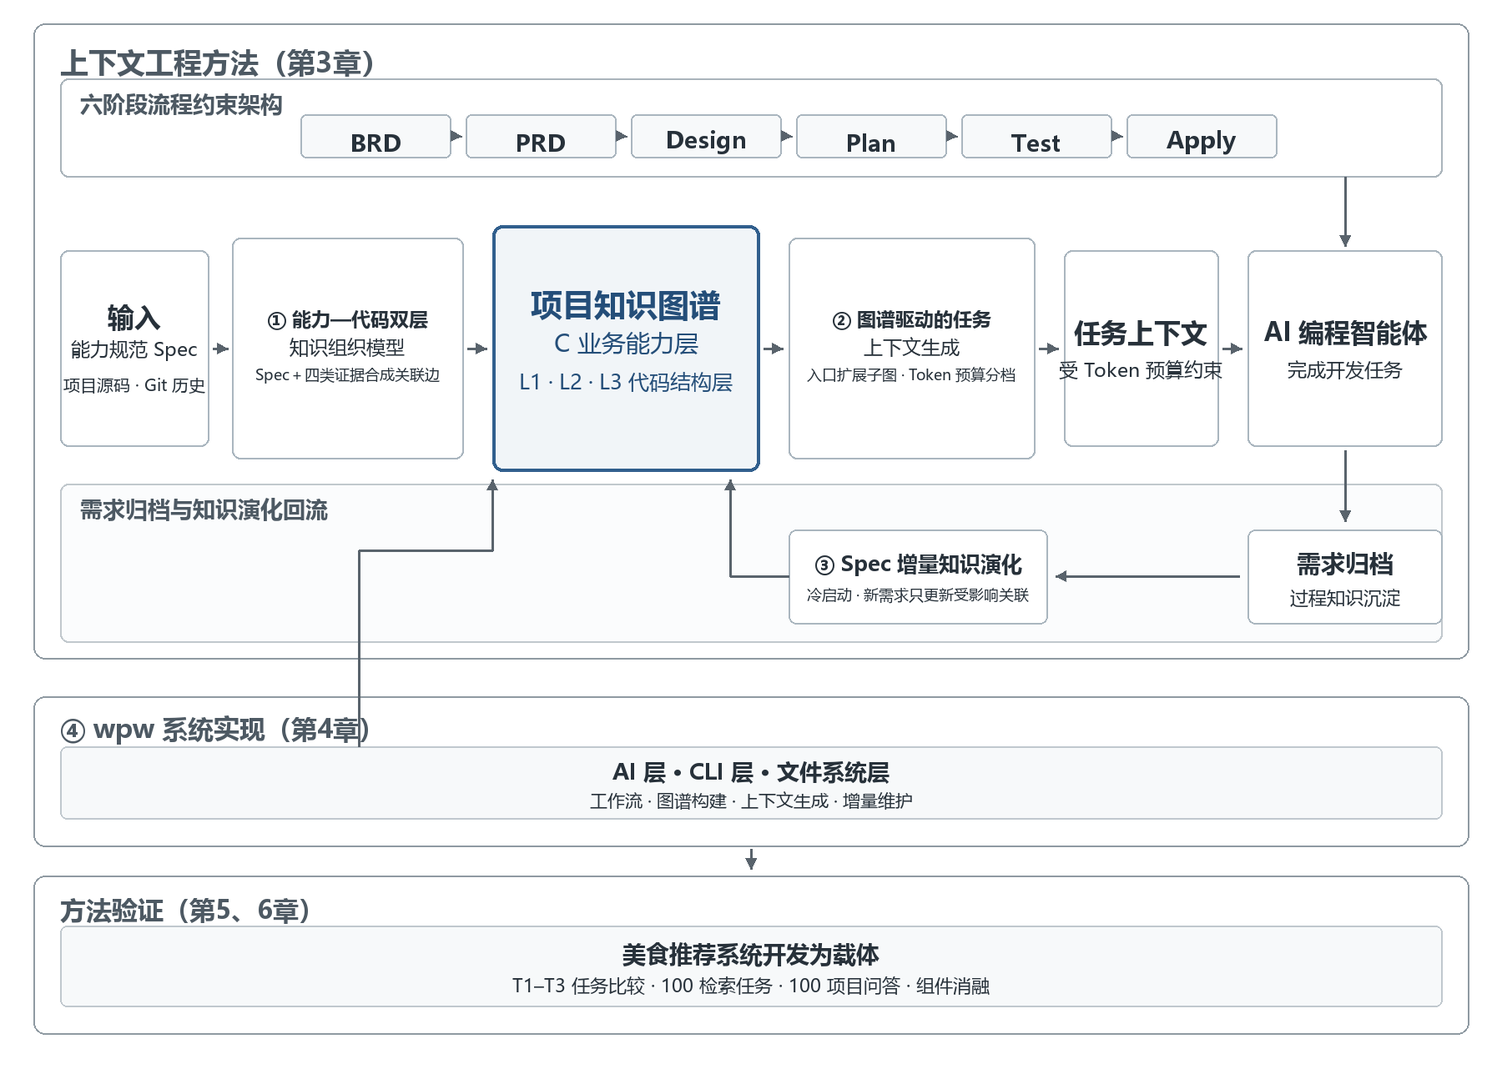
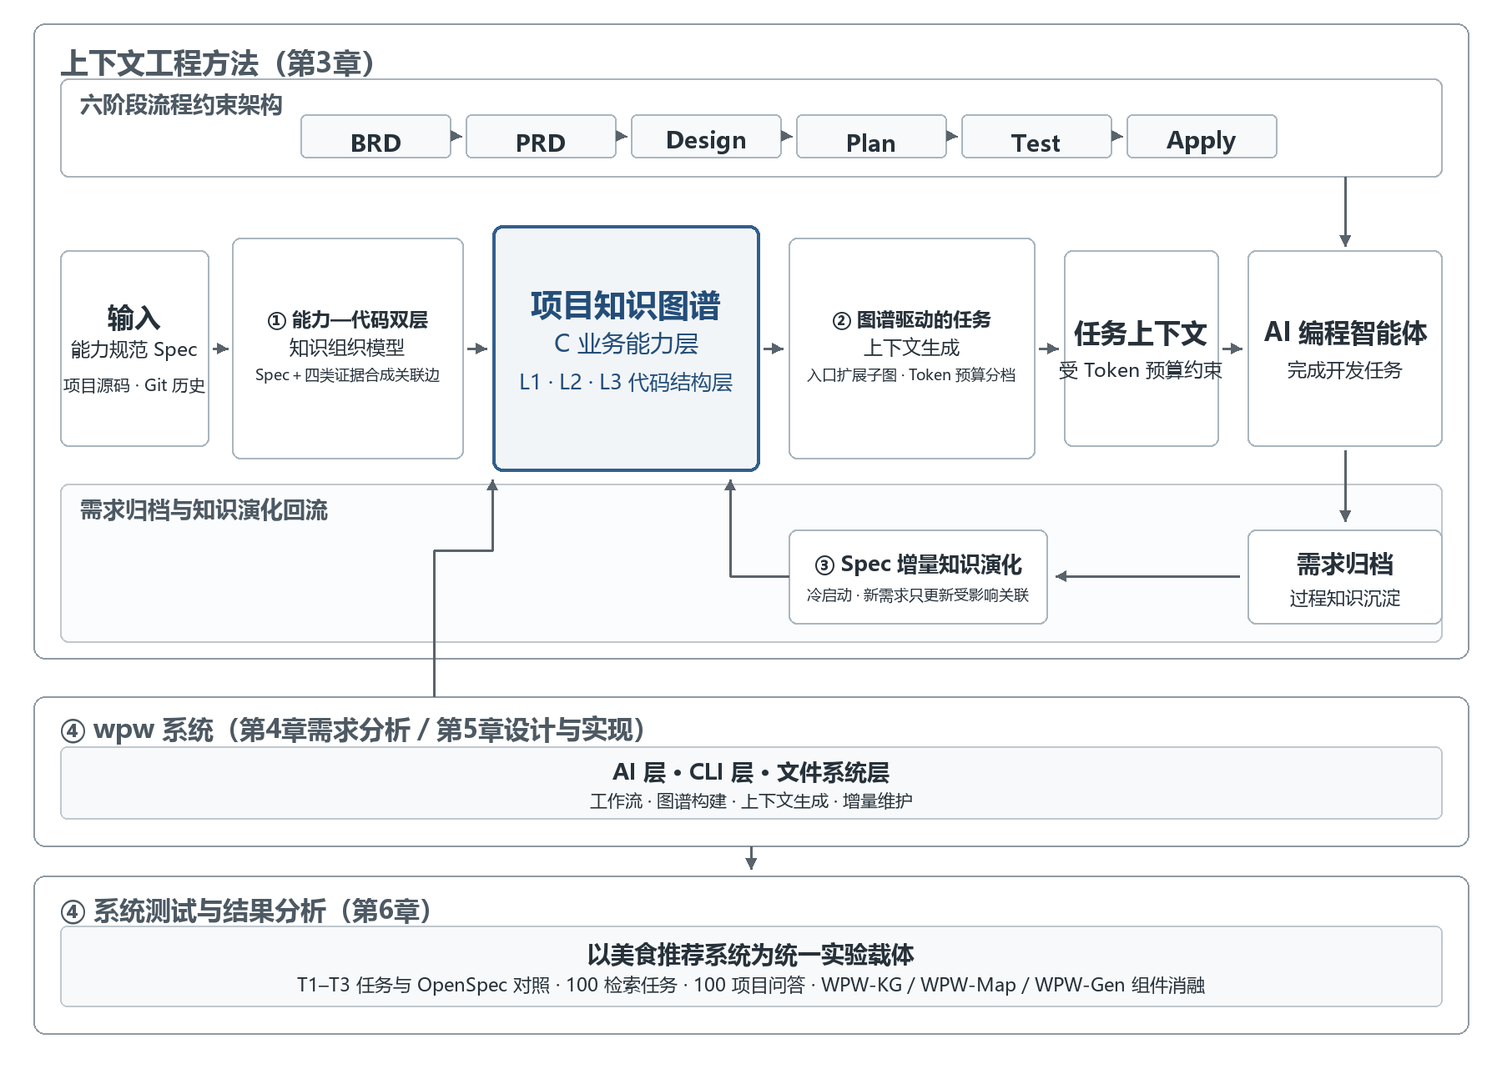
章节更新

Changed region(s): [[0.2178, 0.8615, 0.8089, 0.9231], [0.1244, 0.6462, 0.4356, 0.7077], [0.0311, 0.8308, 0.28, 0.8615]]

diff --git a/scripts/render_fig12.py b/scripts/render_fig12.py
@@ -1,147 +1,41 @@
 # -*- coding: utf-8 -*-
-"""Render the updated Figure 1-2 as PNG and editable SVG."""
-
+"""Render Figure 1-2 as a reproducible PNG and editable SVG."""
 from pathlib import Path
 from xml.sax.saxutils import escape
 import math
-
 from PIL import Image, ImageDraw, ImageFont
+W,H=1800,1300
+ROOT=Path(__file__).resolve().parents[1]
+OUT_DIR=ROOT/'论文'/'图表'/'第1章'
+PNG_OUT=OUT_DIR/'图1-2-核心研究内容.png'; SVG_OUT=OUT_DIR/'图1-2-核心研究内容.svg'
+FONT=r'C:\Windows\Fonts\msyh.ttc'; BOLD=r'C:\Windows\Fonts\msyhbd.ttc'
+TEXT='#27313a'; MUTED='#4d5963'; LINE='#59636c'; BORDER='#aab6bf'
+img=Image.new('RGB',(W,H),'white'); d=ImageDraw.Draw(img)
+svg=[f'<svg xmlns="http://www.w3.org/2000/svg" width="{W}" height="{H}" viewBox="0 0 {W} {H}">','<defs><marker id="arrow" markerWidth="12" markerHeight="12" refX="10" refY="6" orient="auto" markerUnits="strokeWidth"><path d="M0,0 L12,6 L0,12 Z" fill="#59636c"/></marker></defs>','<style>.cn{font-family:"Microsoft YaHei","Noto Sans CJK SC","SimSun",sans-serif;fill:#27313a}</style>',f'<rect width="{W}" height="{H}" fill="#fff"/>']
+def f(size,bold=False): return ImageFont.truetype(BOLD if bold else FONT,size)
+def rect(box,fill='#fff',outline=BORDER,width=2,radius=10,dashed=False):
+ x1,y1,x2,y2=box; d.rounded_rectangle(box,radius=radius,fill=fill,outline=outline,width=width); dash=' stroke-dasharray="10 8"' if dashed else ''; svg.append(f'<rect x="{x1}" y="{y1}" width="{x2-x1}" height="{y2-y1}" rx="{radius}" fill="{fill}" stroke="{outline}" stroke-width="{width}"{dash}/>')
+def text(x,y,value,size=24,bold=False,color=TEXT,anchor='middle'):
+ face=f(size,bold); b=d.textbbox((0,0),value,font=face); width=b[2]-b[0]; px=x-width/2 if anchor=='middle' else (x-width if anchor=='end' else x); d.text((px,y-(b[3]-b[1])/2),value,font=face,fill=color); weight='font-weight:600;' if bold else ''; svg.append(f'<text x="{x}" y="{y}" text-anchor="{anchor}" dominant-baseline="middle" class="cn" style="font-size:{size}px;{weight}fill:{color}">{escape(value)}</text>')
+def lines(cx,cy,values,sizes,colors=None,leading=36,first_bold=True):
+ colors=colors or [TEXT]*len(values); top=cy-leading*(len(values)-1)/2
+ for i,value in enumerate(values): text(cx,top+leading*i,value,sizes[i],bold=first_bold and i==0,color=colors[i])
+def arrow(points,color=LINE,width=3):
+ d.line(points,fill=color,width=width,joint='curve'); pts=' '.join(f'{x},{y}' for x,y in points); svg.append(f'<polyline points="{pts}" fill="none" stroke="{color}" stroke-width="{width}" stroke-linejoin="round" marker-end="url(#arrow)"/>'); x1,y1=points[-2]; x2,y2=points[-1]; angle=math.atan2(y2-y1,x2-x1); head=14; p1=(x2-head*math.cos(angle-.48),y2-head*math.sin(angle-.48)); p2=(x2-head*math.cos(angle+.48),y2-head*math.sin(angle+.48)); d.polygon([(x2,y2),p1,p2],fill=color)
+rect((40,28,1760,790),outline='#8f9aa2',radius=14,dashed=True); text(72,68,'上下文工程方法（第3章）',34,True,MUTED,'start')
+rect((72,94,1728,212),outline='#aab4bb',radius=10,dashed=True); text(96,119,'六阶段流程约束架构',27,True,MUTED,'start')
+stages=['BRD','PRD','Design','Plan','Test','Apply']; sx,sy,sw,sh,gap=360,137,180,52,18
+for i,stage in enumerate(stages):
+ x1=sx+i*(sw+gap); rect((x1,sy,x1+sw,sy+sh),fill='#f7f9fa',radius=7); text(x1+sw/2,sy+sh/2,stage,28,True)
+ if i<len(stages)-1: arrow([(x1+sw+5,sy+sh/2),(x1+sw+gap-5,sy+sh/2)],width=2)
+boxes=[(72,300,250,535),(278,285,555,550),(590,270,910,565),(945,285,1240,550),(1275,300,1460,535),(1495,300,1728,535)]
+for i,box in enumerate(boxes): rect(box,fill='#f1f5f8' if i==2 else '#fff',outline='#315f8d' if i==2 else BORDER,width=4 if i==2 else 2,radius=12 if i==2 else 10)
+lines(161,415,['输入','能力规范 Spec','项目源码 · Git 历史'],[32,23,20],leading=42); lines(416,412,['① 能力—代码双层','知识组织模型','Spec＋四类证据合成关联边'],[23,23,18],leading=34); lines(750,405,['项目知识图谱','C 业务能力层','L1 · L2 · L3 代码结构层'],[38,29,25],['#244e79']*3,leading=48); lines(1092,412,['② 图谱驱动的任务','上下文生成','入口扩展子图 · Token 预算分档'],[23,23,18],leading=34); lines(1367,415,['任务上下文','受 Token 预算约束'],[32,23],leading=47); lines(1612,415,['AI 编程智能体','完成开发任务'],[31,23],leading=47)
+for a,b in [((255,418),(273,418)),((560,418),(583,418)),((915,418),(938,418)),((1245,418),(1268,418)),((1465,418),(1488,418))]: arrow([a,b])
+arrow([(1612,212),(1612,287),(1612,295)])
+rect((72,580,1728,770),fill='#fbfcfd',outline='#c1c8cd',radius=10,dashed=True); text(96,605,'需求归档与知识演化回流',27,True,MUTED,'start'); rect((945,635,1255,748)); rect((1495,635,1728,748)); lines(1100,691,['③ Spec 增量知识演化','冷启动 · 新需求只更新受影响关联'],[25,18],leading=38); lines(1612,691,['需求归档','过程知识沉淀'],[29,22],leading=42); arrow([(1612,540),(1612,625)]); arrow([(1485,691),(1265,691)]); arrow([(945,691),(875,691),(875,575)])
+rect((40,835,1760,1015),outline='#8f9aa2',radius=14); text(72,870,'④ wpw 系统（第4章需求分析／第5章设计与实现）',31,True,MUTED,'start'); rect((72,895,1728,982),fill='#f7f9fa',outline='#c0c8ce',radius=8); lines(900,938,['AI 层 · CLI 层 · 文件系统层','工作流 · 图谱构建 · 上下文生成 · 增量维护'],[27,21],leading=36)
+rect((40,1050,1760,1240),outline='#8f9aa2',radius=14); text(72,1085,'④ 系统测试与结果分析（第6章）',31,True,MUTED,'start'); rect((72,1110,1728,1207),fill='#f7f9fa',outline='#c0c8ce',radius=8); lines(900,1158,['以美食推荐系统为统一实验载体','T1–T3 任务与 OpenSpec 对照 · 100 检索任务 · 100 项目问答 · WPW-KG／WPW-Map／WPW-Gen 组件消融'],[28,22],leading=38)
+arrow([(520,835),(520,805),(520,660),(590,660),(590,575)]); arrow([(900,1015),(900,1042)])
+svg.append('</svg>'); OUT_DIR.mkdir(parents=True,exist_ok=True); img.save(PNG_OUT,'PNG',optimize=True); SVG_OUT.write_text('\n'.join(svg),encoding='utf-8'); print(PNG_OUT); print(SVG_OUT)
 
-
-W, H = 1800, 1300
-ROOT = Path(__file__).resolve().parents[1]
-OUT_DIR = ROOT / "论文" / "图表" / "第1章"
-PNG_OUT = OUT_DIR / "图1-2-核心研究内容.png"
-SVG_OUT = OUT_DIR / "图1-2-核心研究内容.svg"
-FONT = r"C:\Windows\Fonts\msyh.ttc"
-BOLD = r"C:\Windows\Fonts\msyhbd.ttc"
-
-img = Image.new("RGB", (W, H), "white")
-d = ImageDraw.Draw(img)
-svg = [
-    '<svg xmlns="http://www.w3.org/2000/svg" width="1800" height="1300" viewBox="0 0 1800 1300">',
-    '<defs><marker id="arrow" markerWidth="12" markerHeight="12" refX="10" refY="6" orient="auto" markerUnits="strokeWidth"><path d="M0,0 L12,6 L0,12 Z" fill="#59636c"/></marker></defs>',
-    '<style>.cn{font-family:"Microsoft YaHei","Noto Sans CJK SC","SimSun",sans-serif;fill:#27313a}.stage{font-weight:600}</style>',
-    '<rect width="1800" height="1300" fill="#fff"/>',
-]
-
-
-def f(size, bold=False):
-    return ImageFont.truetype(BOLD if bold else FONT, size)
-
-
-def rect(box, fill="#fff", outline="#aab6bf", width=2, radius=10, dashed=False):
-    x1, y1, x2, y2 = box
-    d.rounded_rectangle(box, radius=radius, fill=fill, outline=outline, width=width)
-    dash = ' stroke-dasharray="10 8"' if dashed else ""
-    svg.append(f'<rect x="{x1}" y="{y1}" width="{x2-x1}" height="{y2-y1}" rx="{radius}" fill="{fill}" stroke="{outline}" stroke-width="{width}"{dash}/>')
-
-
-def text(x, y, value, size=24, bold=False, color="#27313a", anchor="middle"):
-    face = f(size, bold)
-    b = d.textbbox((0, 0), value, font=face)
-    width = b[2] - b[0]
-    px = x - width / 2 if anchor == "middle" else (x - width if anchor == "end" else x)
-    d.text((px, y - (b[3] - b[1]) / 2), value, font=face, fill=color)
-    weight = 'font-weight:600;' if bold else ''
-    svg.append(f'<text x="{x}" y="{y}" text-anchor="{anchor}" dominant-baseline="middle" class="cn" style="font-size:{size}px;{weight}fill:{color}">{escape(value)}</text>')
-
-
-def lines(cx, cy, values, sizes, colors=None, leading=36, first_bold=True):
-    colors = colors or ["#27313a"] * len(values)
-    top = cy - leading * (len(values) - 1) / 2
-    for i, value in enumerate(values):
-        text(cx, top + leading * i, value, sizes[i], bold=first_bold and i == 0, color=colors[i])
-
-
-def arrow(points, color="#59636c", width=3):
-    d.line(points, fill=color, width=width, joint="curve")
-    pts = " ".join(f"{x},{y}" for x, y in points)
-    svg.append(f'<polyline points="{pts}" fill="none" stroke="{color}" stroke-width="{width}" stroke-linejoin="round" marker-end="url(#arrow)"/>')
-    x1, y1 = points[-2]
-    x2, y2 = points[-1]
-    angle = math.atan2(y2 - y1, x2 - x1)
-    head = 14
-    p1 = (x2 - head * math.cos(angle - .48), y2 - head * math.sin(angle - .48))
-    p2 = (x2 - head * math.cos(angle + .48), y2 - head * math.sin(angle + .48))
-    d.polygon([(x2, y2), p1, p2], fill=color)
-
-
-# 1. Method area: the absolute visual focus of the figure.
-rect((40, 28, 1760, 790), fill="#fff", outline="#8f9aa2", width=2, radius=14, dashed=True)
-text(72, 68, "上下文工程方法（第3章）", 34, True, "#4d5963", anchor="start")
-
-# Workflow constraint sub-band.
-rect((72, 94, 1728, 212), fill="#fff", outline="#aab4bb", width=2, radius=10, dashed=True)
-text(96, 119, "六阶段流程约束架构", 27, True, "#4d5963", anchor="start")
-stages = ["BRD", "PRD", "Design", "Plan", "Test", "Apply"]
-sx, sy, sw, sh, gap = 360, 137, 180, 52, 18
-for i, stage in enumerate(stages):
-    x1 = sx + i * (sw + gap)
-    rect((x1, sy, x1 + sw, sy + sh), fill="#f7f9fa", outline="#aab6bf", width=2, radius=7)
-    text(x1 + sw / 2, sy + sh / 2, stage, 28, True, "#27313a")
-    if i < len(stages) - 1:
-        arrow([(x1 + sw + 5, sy + sh / 2), (x1 + sw + gap - 5, sy + sh / 2)], width=2)
-
-# Main method chain.
-boxes = {
-    "input": (72, 300, 250, 535),
-    "model": (278, 285, 555, 550),
-    "graph": (590, 270, 910, 565),
-    "context": (945, 285, 1240, 550),
-    "task": (1275, 300, 1460, 535),
-    "agent": (1495, 300, 1728, 535),
-}
-for key, box in boxes.items():
-    if key == "graph":
-        rect(box, fill="#f1f5f8", outline="#315f8d", width=4, radius=12)
-    else:
-        rect(box, fill="#fff", outline="#aab6bf", width=2, radius=10)
-
-lines(161, 415, ["输入", "能力规范 Spec", "项目源码 · Git 历史"], [32, 23, 20], leading=42)
-lines(416, 412, ["① 能力—代码双层", "知识组织模型", "Spec＋四类证据合成关联边"], [23, 23, 18], leading=34)
-lines(750, 405, ["项目知识图谱", "C 业务能力层", "L1 · L2 · L3 代码结构层"], [38, 29, 25], ["#244e79"] * 3, leading=48)
-lines(1092, 412, ["② 图谱驱动的任务", "上下文生成", "入口扩展子图 · Token 预算分档"], [23, 23, 18], leading=34)
-lines(1367, 415, ["任务上下文", "受 Token 预算约束"], [32, 23], leading=47)
-lines(1612, 415, ["AI 编程智能体", "完成开发任务"], [31, 23], leading=47)
-
-for a, b in [((255, 418), (273, 418)), ((560, 418), (583, 418)), ((915, 418), (938, 418)), ((1245, 418), (1268, 418)), ((1465, 418), (1488, 418))]:
-    arrow([a, b])
-
-# Flow constraint -> agent (the only arrow crossing the workflow sub-band boundary).
-arrow([(1612, 212), (1612, 287), (1612, 295)])
-
-# Archive/evolution return lane inside the method area.
-rect((72, 580, 1728, 770), fill="#fbfcfd", outline="#c1c8cd", width=2, radius=10, dashed=True)
-text(96, 605, "需求归档与知识演化回流", 27, True, "#4d5963", anchor="start")
-rect((945, 635, 1255, 748), fill="#fff", outline="#aab6bf", width=2, radius=9)
-rect((1495, 635, 1728, 748), fill="#fff", outline="#aab6bf", width=2, radius=9)
-lines(1100, 691, ["③ Spec 增量知识演化", "冷启动 · 新需求只更新受影响关联"], [25, 18], leading=38)
-lines(1612, 691, ["需求归档", "过程知识沉淀"], [29, 22], leading=42)
-
-# Method-area return arrows.
-arrow([(1612, 540), (1612, 625)])
-arrow([(1485, 691), (1265, 691)])
-arrow([(945, 691), (875, 691), (875, 575)])
-
-# 2. Implementation and validation areas.
-rect((40, 835, 1760, 1015), fill="#fff", outline="#8f9aa2", width=2, radius=14)
-text(72, 870, "④ wpw 系统实现（第4章）", 31, True, "#4d5963", anchor="start")
-rect((72, 895, 1728, 982), fill="#f7f9fa", outline="#c0c8ce", width=2, radius=8)
-lines(900, 938, ["AI 层 · CLI 层 · 文件系统层", "工作流 · 图谱构建 · 上下文生成 · 增量维护"], [27, 21], leading=36)
-
-rect((40, 1050, 1760, 1240), fill="#fff", outline="#8f9aa2", width=2, radius=14)
-text(72, 1085, "方法验证（第5、6章）", 31, True, "#4d5963", anchor="start")
-rect((72, 1110, 1728, 1207), fill="#f7f9fa", outline="#c0c8ce", width=2, radius=8)
-lines(900, 1158, ["美食推荐系统开发为载体", "T1–T3 任务比较 · 100 检索任务 · 100 项目问答 · 组件消融"], [28, 22], leading=38)
-
-# Cross-zone interfaces: implementation -> method, implementation -> validation.
-arrow([(430, 895), (430, 805), (430, 660), (590, 660), (590, 575)])
-arrow([(900, 1018), (900, 1042)])
-
-svg.append("</svg>")
-OUT_DIR.mkdir(parents=True, exist_ok=True)
-img.save(PNG_OUT, "PNG", optimize=True)
-SVG_OUT.write_text("\n".join(svg), encoding="utf-8")
-print(PNG_OUT)
-print(SVG_OUT)

diff --git a/论文/1.引言.md b/论文/1.引言.md
@@ -110,31 +110,32 @@ Figure 1-1 Coverage of Existing Research and the Position of This Thesis
 
 <!--
 【图1-2 占位说明｜绘好后删除本注释，保留下方图片行与图题】
+（2026-09-27 按终版章节结构修订：wpw 跨第4、5章，验证归第6章；机制②说明对齐 3.5 四阶段流水线；细节分图编号更新为图3-1~3-5 与图5-1~5-5；④ 小标在 wpw 框与验证框各置一个；箭头⑩改从 wpw 框顶边外沿出发。）
 
-图意（一句话）：本文的核心研究是上下文工程方法（第3章），它由六阶段流程约束架构与知识建模、上下文生成、知识演化三项机制组成，沿开发闭环运行；wpw 系统是方法的实现（第4、5章：系统需求分析、系统设计与实现），第6章对系统测试并对照实验结果完成方法验证（美食推荐系统为统一实验载体）。图面以第3章方法为绝对主体（约占六成画面），wpw 与验证为下方辅框。
+图意（一句话）：本文的核心研究是上下文工程方法（第3章），它由六阶段流程约束架构与知识建模、上下文生成、知识演化三项机制组成，沿开发闭环运行；wpw 系统是方法的实现（第4章需求分析、第5章设计与实现），第6章系统测试与结果分析以美食推荐系统为统一实验载体完成方法验证。图面以第3章方法为绝对主体（约占六成画面），wpw 与验证为下方辅框。章号标签只出现在本图（1.4/1.5 正文不写章号，章节归属由本图承担）。
 
-图形类型：分层结构为主体（方法／实现／验证三层关系），方法区内部嵌入一条数据流主链加一条归档回流；不画判定分支与算法细节（noisy-OR 公式归图3-4、DAG 门禁归图3-2、wpw 内部模块归图4-1~4-4）；方法区只画到"机制框＋主链"粒度，不画 3.1 节的三层知识划分，避免与图3-1 重复。
+图形类型：分层结构为主体（方法／实现／验证三层关系），方法区内部嵌入一条数据流主链加一条归档回流；不画判定分支与算法细节（noisy-OR 公式归图3-4、锚点与 BFS 细节归图3-5、阶段门禁归图3-2与图5-4、wpw 内部模块归图5-1~5-5）；方法区只画到"机制框＋主链"粒度，不画 3.1 节的三层知识划分与 3.3 节的双层本体细节，避免与图3-1、图3-3 重复。
 
 布局（横版约 1800×1300，纵向三区）：
 1）方法大区（虚线分区，占高约 60%，区标题"上下文工程方法（第3章）"），内部自上而下：
    流程约束子带（虚线）：[BRD]→[PRD]→[Design]→[Plan]→[Test]→[Apply] 一排小块，不画 Explore（归图3-2）；
-   主链（一行横排）：[输入：能力规范Spec／项目源码／Git历史] → [① 能力-代码双层知识组织模型：Spec 描述业务能力，四类证据合成关联边] →（构建）→ [项目知识图谱：业务能力层 C＋代码结构层 L1·L2·L3]（居中，唯一强调色） →（查询）→ [② 图谱驱动的任务上下文生成：选定入口扩展子图，按 Token 预算分档输出] →（生成）→ [任务上下文：受 Token 预算约束] →（供给）→ [AI 编程智能体：完成开发任务]；
-   下泳道回流（右侧）：智能体 ↓（实施完成）→ [需求归档：过程知识沉淀] →（触发更新，水平向左）→ [③ Spec 增量知识演化：冷启动／新需求只更新受影响关联] →（增量更新，垂直向上）→ 图谱底边右侧。归档位于智能体正下方，演化框位于图谱右下方，三段互不交叉。
-2）wpw 框（实线框，全宽）：wpw 系统（第4、5章）／AI 层 · CLI 层 · 文件系统层；工作流 · 图谱构建 · 上下文生成 · 增量维护。
-3）验证框（实线框，全宽）：系统测试与结果分析（第6章）／wpw 系统功能测试；以美食推荐系统为统一实验载体的验证：T1–T3 任务比较 · 100 检索任务 · 100 项目问答 · 组件消融。
-三区标题旁放 ①②③④ 小标，对应正文"四个层面"：①②③ 在方法区三个机制框上，④ 跨 wpw 框与验证框。
+   主链（一行横排）：[输入：能力规范Spec／项目源码／Git历史] → [① 能力-代码双层知识组织模型：Spec 描述业务能力＋源码解析出三级结构，四类证据合成关联边] →（构建）→ [项目知识图谱：业务能力层 C＋代码结构层 L1·L2·L3]（居中，唯一强调色） →（查询）→ [② 图谱驱动的任务上下文生成：选定入口扩展取子图，按距离分级保留细节，按 Token 预算分档降级输出] →（生成）→ [任务上下文：受 Token 预算约束] →（供给）→ [AI 编程智能体：完成开发任务]；
+   下泳道回流（右侧）：智能体 ↓（实施完成）→ [需求归档：过程知识沉淀] →（触发更新，水平向左）→ [③ Spec 增量知识演化：冷启动建图／新需求只更新受影响关联] →（增量更新，垂直向上）→ 图谱底边右侧。归档位于智能体正下方，演化框位于图谱右下方，三段互不交叉；回流子带标题避开左侧垂直走廊（给箭头⑩让位）。
+2）wpw 框（实线框，全宽）：区标题"④ wpw 系统（第4章需求分析／第5章设计与实现）"；框内两行：AI 层 · CLI 层 · 文件系统层；工作流 · 图谱构建 · 上下文生成 · 增量维护。
+3）验证框（实线框，全宽）：区标题"④ 系统测试与结果分析（第6章）"；框内两行：wpw 系统功能测试；以美食推荐系统为统一实验载体——T1–T3 任务与 OpenSpec 对照 · 100 检索任务 · 100 项目问答 · WPW-KG／WPW-Map／WPW-Gen 组件消融。
+①②③④ 小标对应正文"四个层面"：①②③ 在方法区三个机制框上，④ 在 wpw 框与验证框区标题前各置一个（第四层面＝系统实现＋方法验证）。
 
 箭头（共 11 条，全实线、端点落在模块边缘、水平／垂直／正交折线）：
 方法区内 9 条：①输入→建模（建模输入）②建模→图谱（构建）③图谱→生成（查询）④生成→任务上下文（生成）⑤任务上下文→智能体（供给）⑥流程约束子带底边（Apply 下方）→智能体顶边（阶段流转约束执行，唯一穿子带边界的箭头）⑦智能体→归档（实施完成，右侧垂直走廊）⑧归档→演化（触发更新，水平向左）⑨演化→图谱（增量更新，垂直向上，落图谱底边右侧）。
-跨区接口 2 条：⑩wpw 框顶边 → 图谱底边左侧（实现与维护，垂直向上，与⑨水平错开，穿大区虚线边界处走留白走廊）⑪wpw 框底边 → 验证框顶边（应用与检验，垂直向下）。
+跨区接口 2 条：⑩wpw 框顶边外沿 → 图谱底边左侧（实现与维护，垂直向上；起自外框顶边而非内部内容框，x 取避开 wpw 区标题文字的留白处，与⑨水平错开，穿大区虚线边界处走留白走廊）⑪wpw 框底边 → 验证框顶边（应用与检验，垂直向下）。
 
 色彩字体：白底、黑灰细线；灰色虚线只用于方法大区与流程子带的边界；强调色仅一种低饱和色填枢纽图谱框（沿用图1-1 浅蓝灰 #f1f5f8），其余框白底；字体同图1-1（微软雅黑）；图内不画图题（图题由正文图注给出，图1-1 内嵌标题为旧例不沿用）。
 
-验收（按《论文图表生成-SKILL》强制门槛）：有效内容区宽≥70%、高≥60%；1800×1300 画布下核心框字高≥46px、普通框≥39px、分区标签≥31px、辅助≥26px；每框≤3 行、不压线不贴边；11 条箭头无悬空、无穿越、无交叉；最终按 0.95\textwidth 插入比例复验。
+验收（按《论文图表生成-SKILL》强制门槛）：有效内容区宽≥70%、高≥60%；1800×1300 画布下核心框字高≥46px、普通框≥39px、分区标签≥31px、辅助≥26px；每框≤3 行、不压线不贴边；11 条箭头无悬空、无穿越、无交叉、不压任何区标题文字；最终按 0.95\textwidth 插入比例复验。
 
-产出：建议 scripts/render_fig12.py（复用 render_fig11.py 的圆角卡片与箭头函数）→ 论文/图表/第1章/图1-2-核心研究内容.png，另产同名 .svg 可编辑源。
+产出：在现有 scripts/render_fig12.py 上修改（继续复用 render_fig11.py 的圆角卡片与箭头函数）→ 论文/图表/第1章/图1-2-核心研究内容.png，另产同名 .svg 可编辑源。
 
-术语：框标题用机制全名（与第 3 章一致），框内说明用 1.4 正文的人话版；C／L1／L2／L3 层级名与第 3 章一致；后续分图为本图局部细化——图3-1（方法区运行逻辑）、图3-2（流程约束子带）、wpw 章系统架构图（wpw 框；原图4-1 随章节迁移重新编号）；各章引用本图只写"图1-2"，不用小节号回指。
+术语：框标题用机制全名（与第 3 章一致），框内说明用 1.4 正文的人话版；C／L1／L2／L3 层级名与第 3 章一致；后续分图为本图局部细化——图3-1（方法区运行逻辑）、图3-2（流程约束子带）、图3-3（双层本体）、图3-4（关联边生成流程）、图3-5（上下文生成流水线）、图5-1~5-5（wpw 架构与模块实现）；各章引用本图只写"图1-2"，不用小节号回指。
 -->
 
 
